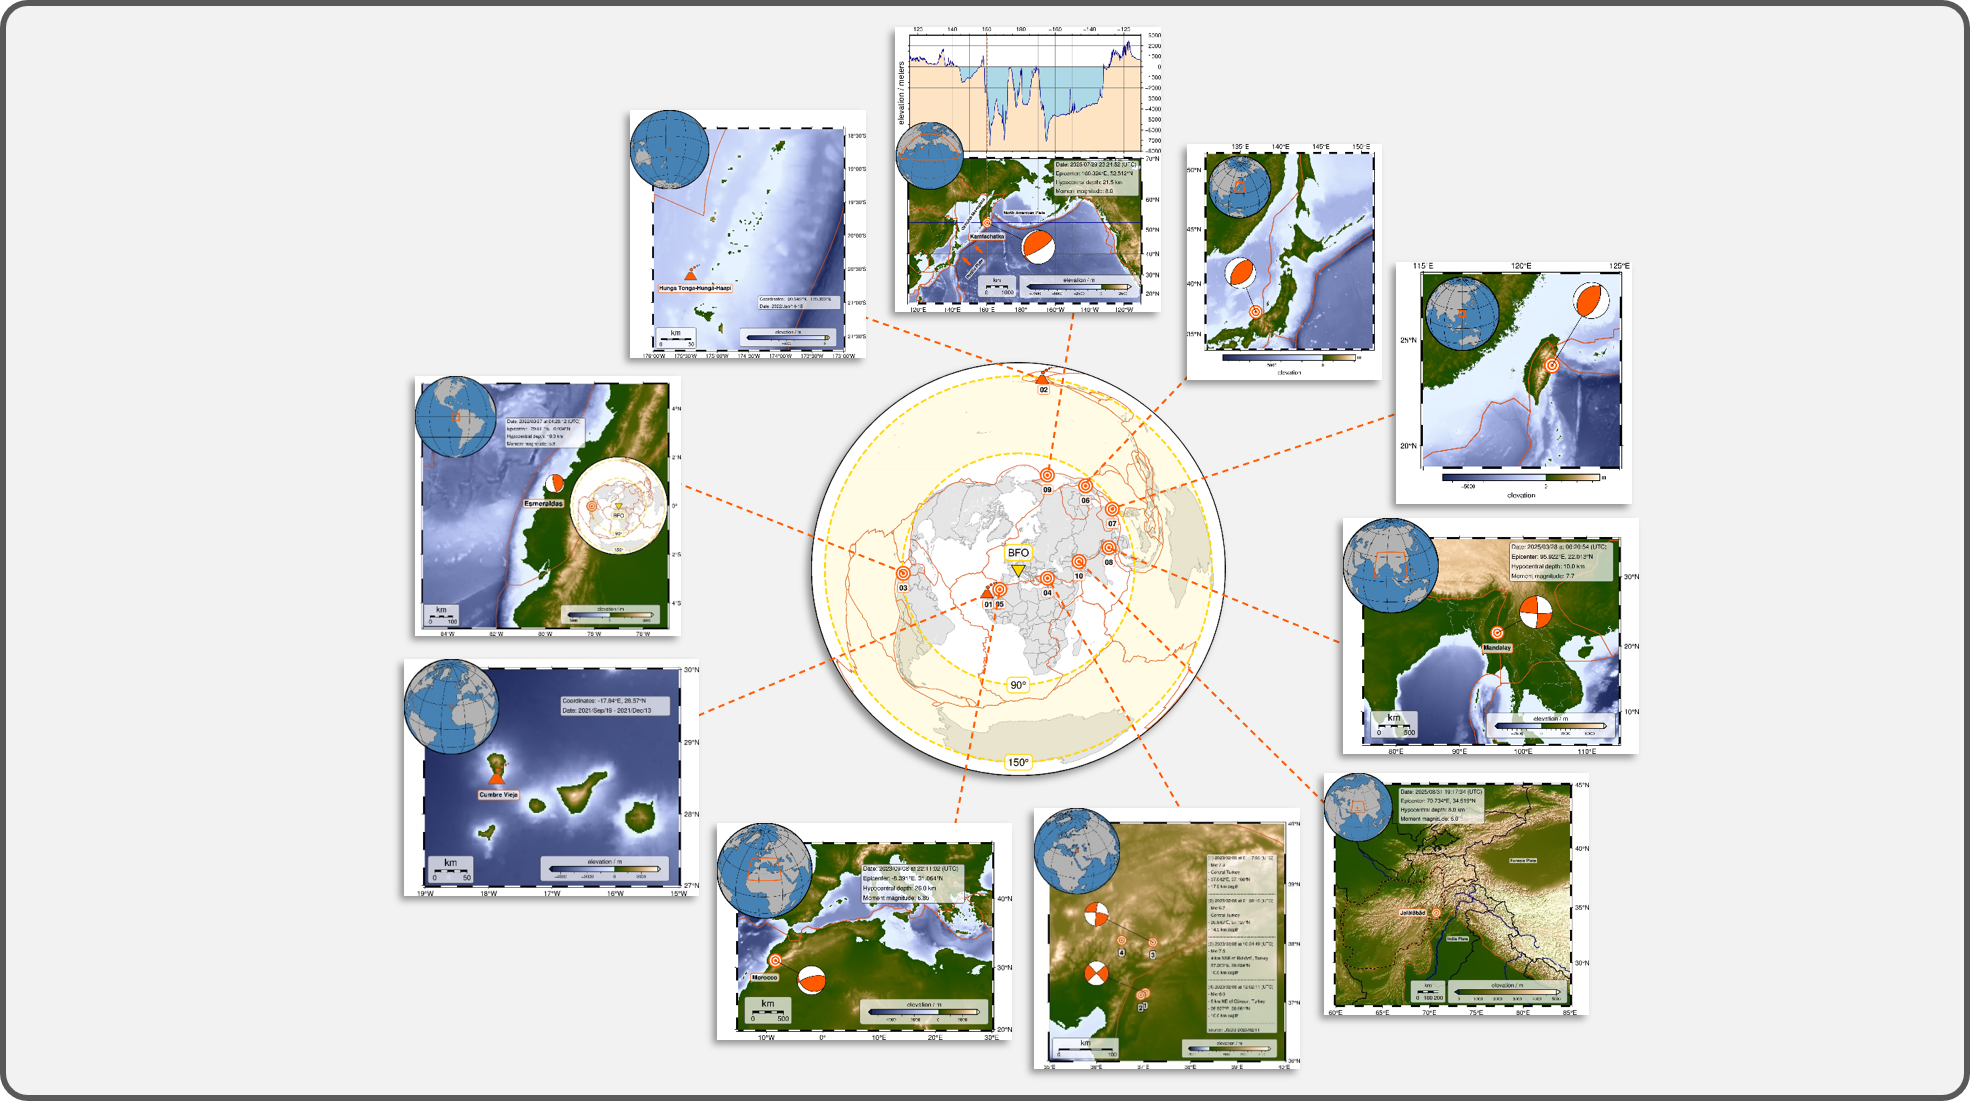
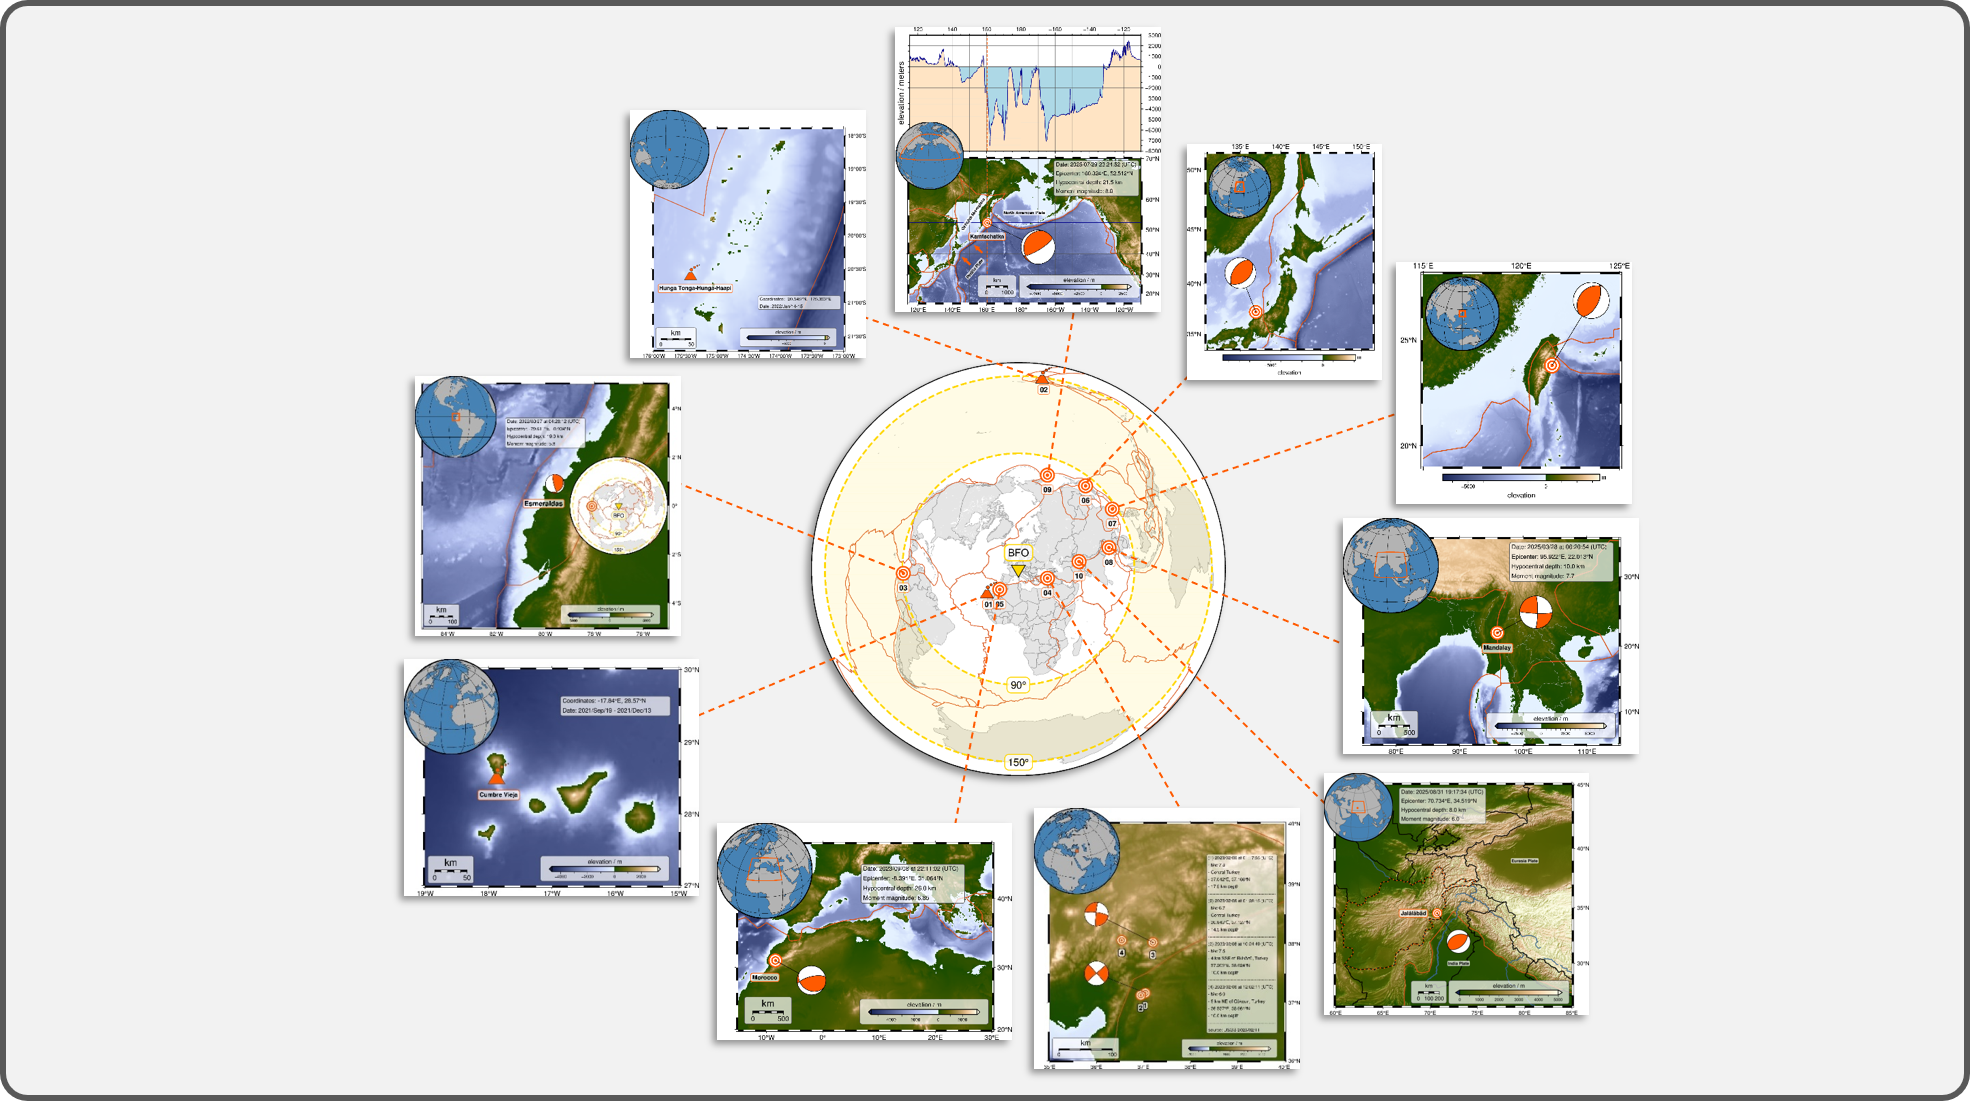
Add beachball

Changed region(s): [[0.6812, 0.7103, 0.8051, 0.9264]]

diff --git a/004_earthquakes_eruptions/10_afghanistan_earthquake.py b/004_earthquakes_eruptions/10_afghanistan_earthquake.py
@@ -67,7 +67,7 @@ lat_eq = 34.519  # degrees North
 # -----------------------------------------------------------------------------
 # Colors
 color_water = "steelblue"
-color_river = "darkblue"
+color_river = "steelblue4"
 color_land = "gray70"
 color_sl = "gray30"  # shorelines
 color_pb = "216.750/82.875/24.990"  # plate boundaries -> darkorange
@@ -128,6 +128,17 @@ fig.plot(
     pen=color_hl,
 )
 
+# Beachball
+pen_epi = "0.5p,black"
+fig.meca(
+    spec=f"{path_in}/meca_afghanistan.txt",
+    convention="aki",
+    scale="1c",
+    compressionfill=color_hl,  # fill color of compressive quadrants
+    offset=pen_epi,
+    outline=pen_epi,
+)
+
 # Label
 fig.text(
     x=lon_eq,
@@ -154,7 +165,7 @@ fig.text(
 # Plate names
 fig.text(
     x=[73, 80],
-    y=[32.2, 39],
+    y=[30, 39],
     text=["India Plate", "Eurasia Plate"],
     font="6p,Helvetica-Bold,black",
     fill="white@30",
